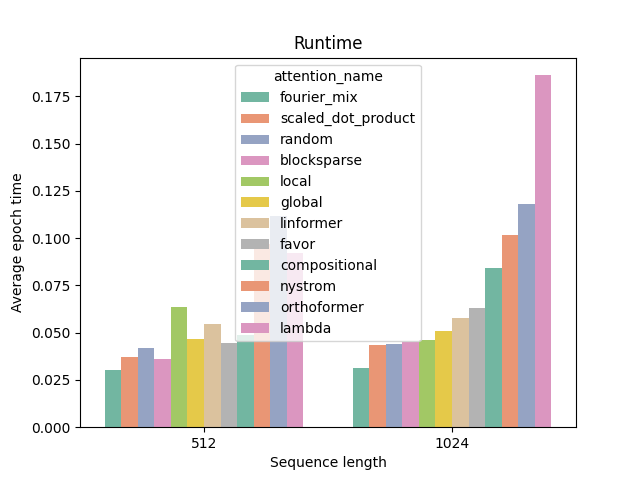
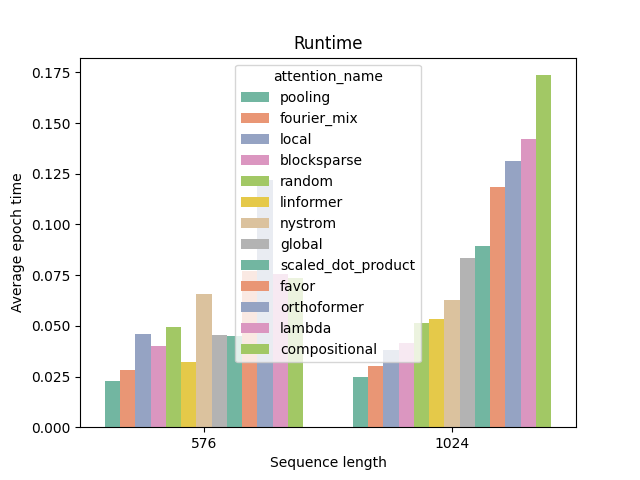
Properly adding Poolformer

diff --git a/xformers/components/attention/pooling.py b/xformers/components/attention/pooling.py
@@ -1,0 +1,77 @@
+# Copyright (c) Facebook, Inc. and its affiliates. All rights reserved.
+#
+# This source code is licensed under the BSD license found in the
+# LICENSE file in the root directory of this source tree.
+
+
+import math
+from dataclasses import dataclass
+from typing import Optional
+
+import torch
+import torch.nn as nn
+
+from xformers.components.attention import Attention, AttentionConfig, register_attention
+
+
+@dataclass
+class PoolingAttentionConfig(AttentionConfig):
+    pool_size: int  # dimension of the input sequence
+    stride: Optional[int]  # dimension of the internal space
+    padding: Optional[int]
+
+
+@register_attention("pooling", PoolingAttentionConfig)
+class Pooling(Attention):
+    def __init__(
+        self,
+        pool_size: int = 3,
+        stride: int = 1,
+        padding: Optional[int] = None,
+        *_,
+        **__,
+    ):
+        """
+        Pooling token mixing mechanism, as proposed in
+        `Metaformer is actually what you need for vision`_, Yu et al (2021).
+
+        The original notation is kept as is.
+
+        .. _`Metaformer is actually what you need for vision` : https://arxiv.org/pdf/2111.11418v1.pdf
+        """
+        super().__init__()
+
+        padding = padding if padding is not None else pool_size // 2
+        self.pool = nn.AvgPool2d(
+            pool_size,
+            stride=stride,
+            padding=pool_size // 2,
+            count_include_pad=False,
+        )
+
+        # MHA related flags:
+        # kq need to have the same dimension
+        self.requires_same_k_q_dimensions = False
+
+        # This attention does not support attention masks
+        self.supports_attention_mask = False
+
+        # This "attention" (token mixing) skips the multihead attention altogether
+        self.requires_skip_multi_head = True
+
+        # This operator does not really handle q,k,v
+        self.requires_same_k_q_dimensions = True
+
+    def forward(self, q: torch.Tensor, *_, **__):
+        # Expose the 2D token structure
+        B, HW, C = q.shape
+        H = int(math.sqrt(HW))
+        assert H * H == HW
+
+        q = q.transpose(-2, -1).reshape(B, C, H, H)
+
+        # 2D pool
+        x_pool = self.pool(q) - q  # compensate for the residual path
+
+        # Get back to B HW C
+        return x_pool.flatten(2, 3).transpose(-2, -1)

diff --git a/tests/test_attentions.py b/tests/test_attentions.py
@@ -97,7 +97,7 @@ def test_order_invariance(
     device: torch.device,
 ):
 
-    if int(math.sqrt(SEQ)) ** 2 != SEQ and attention_name == "poolling":
+    if int(math.sqrt(SEQ)) ** 2 != SEQ and attention_name == "pooling":
         pytest.skip(f"{attention_name} requires squared sequence lengths")
 
     torch.manual_seed(42)
@@ -286,7 +286,7 @@ def test_broadcast_batch_dimension(
     device: torch.device,
     batch_sizes: Tuple[int, int, int],
 ):
-    if int(math.sqrt(SEQ)) ** 2 != SEQ and attention_name == "poolling":
+    if int(math.sqrt(SEQ)) ** 2 != SEQ and attention_name == "pooling":
         pytest.skip(f"{attention_name} requires squared sequence lengths")
 
     Q_BATCH, K_BATCH, V_BATCH = batch_sizes
@@ -370,12 +370,7 @@ def test_torch_script_ability(
     heads: int,
     attn_dropout: float,
 ):
-    if attention_name in {
-        "favor",
-        "global",
-        "local",
-        "random",
-    }:
+    if attention_name in {"favor", "global", "local", "random", "pooling"}:
         # pyre-fixme[29]: The library function `pytest.skip` is not supported by Pyre.
         pytest.skip(f"{attention_name} does not support scripting yet.")
 

diff --git a/examples/cifarMetaformer.py b/examples/cifarMetaformer.py
@@ -108,11 +108,7 @@ class MetaVisionTransformer(VisionTransformer):
         x = self.trunk(x)
         x = self.ln(x)
 
-        if self.hparams.classifier == Classifier.TOKEN:
-            x = x[:, 0]  # only consider the token, we're classifying anyway
-        elif self.hparams.classifier == Classifier.GAP:
-            x = x.mean(dim=1)  # mean over sequence len
-
+        x = x.mean(dim=1)  # mean over sequence len
         x = self.head(x)
         return x
 
@@ -128,6 +124,9 @@ if __name__ == "__main__":
     MAX_EPOCHS = 50
     NUM_WORKERS = 4
     GPUS = 1
+
+    torch.cuda.manual_seed_all(42)
+    torch.manual_seed(42)
 
     train_transforms = transforms.Compose(
         [

diff --git a/tests/test_hierarchical_transformer.py b/tests/test_hierarchical_transformer.py
@@ -23,7 +23,7 @@ def test_hierarchical_transformer():
     base_hierarchical_configs = [
         BasicLayerConfig(
             embedding=64,
-            attention_mechanism="scaled_dot_product",
+            attention_mechanism="pooling",
             patch_size=7,
             stride=4,
             padding=2,
@@ -31,7 +31,7 @@ def test_hierarchical_transformer():
         ),
         BasicLayerConfig(
             embedding=128,
-            attention_mechanism="scaled_dot_product",
+            attention_mechanism="pooling",
             patch_size=3,
             stride=2,
             padding=1,

diff --git a/xformers/benchmarks/benchmark_encoder.py b/xformers/benchmarks/benchmark_encoder.py
@@ -325,7 +325,7 @@ if __name__ == "__main__":
         "-emb", "--embedding_dim", nargs="+", default=[64, 128, 256], type=int
     )
     parser.add_argument(
-        "-sl", "--sequence_length", nargs="+", default=[512, 1024], type=int
+        "-sl", "--sequence_length", nargs="+", default=[576, 1024], type=int
     )
     parser.add_argument("-bs", "--batch_size", nargs="+", default=[8, 16, 32], type=int)
     parser.add_argument("-heads", "--heads", nargs="+", default=[8, 16], type=int)

diff --git a/xformers/components/attention/feature_maps/softmax.py b/xformers/components/attention/feature_maps/softmax.py
@@ -37,7 +37,6 @@ class SoftMaxPositiveEstimators(FeatureMap):
     ):
         super().__init__(dim_features, iter_before_redraw, normalize_inputs, epsilon)
         self.softmax_temp = softmax_temp
-        self.offset = -1.0
 
         # Handle the scaling from all kernels by √m.
         # This normalizes for all the feature maps involved

diff --git a/xformers/benchmarks/LRA/run_grid_search.py b/xformers/benchmarks/LRA/run_grid_search.py
@@ -7,10 +7,9 @@
 import itertools
 import os
 import uuid
-from collections import Iterable
 from datetime import date
 from pathlib import Path
-from typing import Dict
+from typing import Dict, Iterable
 
 import submitit
 

diff --git a/README.md b/README.md
@@ -145,6 +145,8 @@ Patrick et al., 2021](https://arxiv.org/abs/2106.05392)*
   - *[FNet: Mixing Tokens with Fourier Transforms, Lee-Thorp et al.](https://arxiv.org/abs/2105.03824v1)*
 - [CompositionalAttention](xformers/components/attention/compositional.py)
   - *[Compositional Attention: Disentangling search and retrieval, S. Mittal et al.](https://arxiv.org/pdf/2110.09419v1.pdf)*
+- [2D Pooling](xformers/components/attention/pooling.py)
+  - *[Metaformer is actually what you need for vision, Yu et al.](https://arxiv.org/pdf/2111.11418v1.pdf)*
 
 - ... add a new one [see Contribution.md](CONTRIBUTING.md)
 
